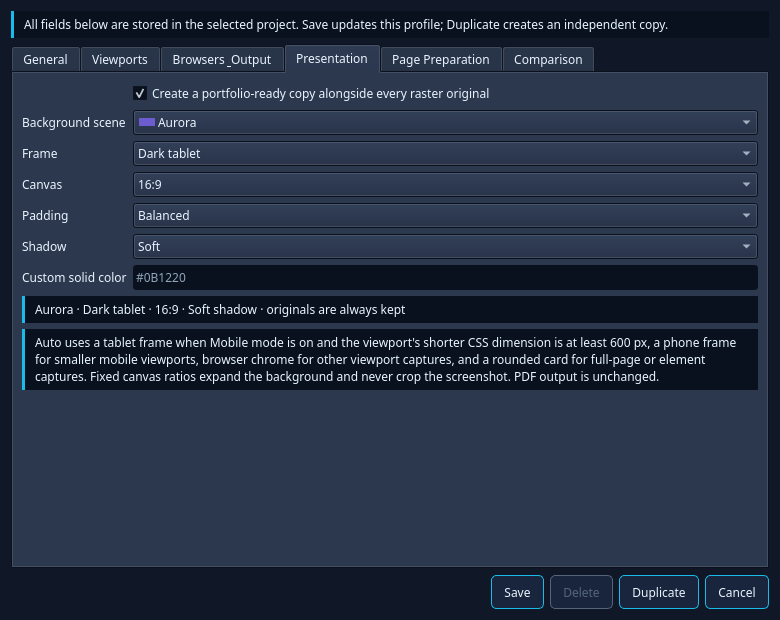
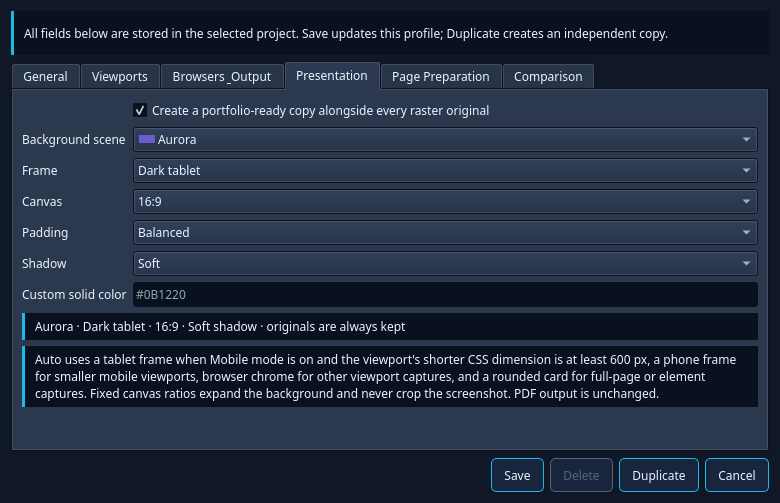
Improve screenshot previews and presentation layout

diff --git a/site/styles.css b/site/styles.css
@@ -94,7 +94,7 @@ h1 em { color: var(--cyan-2); font-style: normal; text-shadow: 0 0 30px rgba(27,
 .portfolio-preview { position: relative; z-index: 1; display: block; overflow: hidden; border: 1px solid rgba(93, 219, 250, .2); border-radius: 13px; background: #130d35; box-shadow: 0 20px 48px rgba(0, 0, 0, .32); }.portfolio-preview img { display: block; width: 100%; height: auto; }
 .supporting-tools { max-width: 920px; margin: 28px auto 0; color: var(--muted); font-size: 14px; line-height: 1.7; text-align: center; }.supporting-tools strong { color: var(--ink); }
 
-.presentation-section { padding-top: 30px; background: radial-gradient(circle at 50% 35%, rgba(109, 91, 208, .12), transparent 45%); }.presentation-showcase { display: grid; grid-template-columns: minmax(0, 1.65fr) minmax(280px, .55fr); gap: 18px; align-items: stretch; }.showcase-shot { margin: 0; padding: 0; overflow: hidden; color: var(--ink); text-align: left; border: 1px solid var(--line); border-radius: 18px; background: #081321; box-shadow: var(--shadow); cursor: zoom-in; transition: transform .25s ease, border-color .25s ease; }.showcase-shot:hover { transform: translateY(-3px); border-color: rgba(65, 216, 250, .42); }.presentation-showcase picture { display: flex; min-height: 0; background: #07111f; }.presentation-showcase img { display: block; width: 100%; height: 100%; object-fit: contain; }.showcase-shot > span { display: block; padding: 14px 17px; color: var(--muted); border-top: 1px solid var(--line); font-size: 12px; line-height: 1.5; }.settings-shot picture { height: calc(100% - 51px); }.settings-shot img { object-fit: contain; object-position: top center; }.frame-gallery { grid-column: 1 / -1; }
+.presentation-section { padding-top: 30px; background: radial-gradient(circle at 50% 35%, rgba(109, 91, 208, .12), transparent 45%); }.presentation-showcase { display: grid; grid-template-columns: repeat(2, minmax(0, 1fr)); gap: 18px; align-items: start; }.showcase-shot { margin: 0; padding: 0; overflow: hidden; color: var(--ink); text-align: left; border: 1px solid var(--line); border-radius: 18px; background: #081321; box-shadow: var(--shadow); cursor: zoom-in; transition: transform .25s ease, border-color .25s ease; }.showcase-shot:hover { transform: translateY(-3px); border-color: rgba(65, 216, 250, .42); }.presentation-showcase picture { display: flex; min-height: 0; background: #07111f; }.presentation-showcase img { display: block; width: 100%; height: 100%; object-fit: contain; }.showcase-shot > span { display: block; padding: 14px 17px; color: var(--muted); border-top: 1px solid var(--line); font-size: 12px; line-height: 1.5; }.settings-shot picture, .settings-shot img { height: auto; }.settings-shot img { object-fit: contain; object-position: top center; }.frame-gallery { grid-column: 1 / -1; }
 
 .workflow-section { border-block: 1px solid var(--line); background: linear-gradient(180deg, rgba(11, 22, 37, .9), rgba(7, 14, 24, .9)); }
 .workflow { margin: 0; padding: 0; display: grid; grid-template-columns: repeat(3, 1fr); list-style: none; counter-reset: steps; }
@@ -105,7 +105,7 @@ h1 em { color: var(--cyan-2); font-style: normal; text-shadow: 0 0 30px rgba(27,
 .shot { min-width: 0; padding: 0; overflow: hidden; color: var(--ink); text-align: left; border: 1px solid var(--line); border-radius: 16px; background: var(--surface); cursor: zoom-in; transition: transform .25s ease, border-color .25s ease; }.shot:hover { transform: translateY(-4px); border-color: rgba(65, 216, 250, .42); }
 .shot picture { display: block; overflow: hidden; aspect-ratio: 16 / 10; border-bottom: 1px solid var(--line); background: #07111f; }.shot img { width: 100%; height: 100%; object-fit: contain; transition: transform .35s ease; }.shot:hover img { transform: scale(1.012); }
 .shot > span { min-height: 92px; padding: 15px 16px; display: block; color: var(--muted); font-size: 12px; line-height: 1.55; }.shot > span b { display: block; margin: 0 0 4px; color: var(--ink); font-size: 15px; }
-.lightbox { width: min(1200px, calc(100% - 30px)); max-width: none; padding: 0; border: 1px solid rgba(63, 213, 248, .3); border-radius: 16px; background: #07111f; box-shadow: var(--shadow); }.lightbox::backdrop { background: rgba(0, 5, 11, .84); backdrop-filter: blur(5px); }.lightbox img { width: 100%; border-radius: 15px; }.lightbox-close { position: absolute; z-index: 2; right: 12px; top: 12px; width: 38px; height: 38px; color: var(--ink); border: 1px solid var(--line); border-radius: 50%; background: rgba(5, 12, 21, .88); cursor: pointer; font-size: 24px; line-height: 1; }
+.lightbox { box-sizing: border-box; width: calc(100vw - 24px); width: calc(100dvw - 24px); height: calc(100vh - 24px); height: calc(100dvh - 24px); max-width: none; max-height: none; padding: 0; overflow: hidden; border: 1px solid rgba(63, 213, 248, .3); border-radius: 16px; background: #07111f; box-shadow: var(--shadow); }.lightbox[open] { display: grid; grid-template-rows: auto minmax(0, 1fr); }.lightbox::backdrop { background: rgba(0, 5, 11, .88); backdrop-filter: blur(5px); }.lightbox-toolbar { min-height: 58px; padding: 9px 11px 9px 18px; display: flex; align-items: center; justify-content: space-between; gap: 16px; border-bottom: 1px solid var(--line); background: #091625; }.lightbox-toolbar > strong { font-size: 13px; letter-spacing: .01em; }.lightbox-actions { display: flex; align-items: center; gap: 8px; }.lightbox-mode, .lightbox-open, .lightbox-close { min-height: 38px; padding: 0 13px; display: inline-flex; align-items: center; justify-content: center; color: var(--muted); border: 1px solid var(--line); border-radius: 9px; background: #0d1c2c; cursor: pointer; font: inherit; font-size: 12px; font-weight: 700; line-height: 1; }.lightbox-mode:hover, .lightbox-open:hover, .lightbox-close:hover, .lightbox-mode[aria-pressed="true"] { color: var(--ink); border-color: rgba(65, 216, 250, .5); background: #12283d; }.lightbox-mode[aria-pressed="true"] { color: var(--cyan-2); }.lightbox-close { width: 38px; padding: 0; border-radius: 50%; font-size: 24px; font-weight: 400; }.lightbox-stage { min-width: 0; min-height: 0; padding: 12px; overflow: auto; display: grid; place-items: center; background: #040a12; }.lightbox img { display: block; width: 100%; height: 100%; object-fit: contain; border-radius: 10px; }.lightbox.is-actual .lightbox-stage { place-items: start center; }.lightbox.is-actual img { width: auto; height: auto; max-width: none; max-height: none; object-fit: none; }
 
 .architecture { display: grid; grid-template-columns: .92fr 1.08fr; align-items: center; gap: 100px; }
 .check-list { margin: 28px 0; padding: 0; display: grid; gap: 12px; list-style: none; color: #bdd0dd; }.check-list li { position: relative; padding-left: 28px; }.check-list li::before { content: "✓"; position: absolute; left: 0; color: var(--cyan); font-weight: 800; }.check-list code { padding: 2px 5px; color: var(--cyan-2); background: #0c1b2d; border-radius: 5px; }
@@ -142,6 +142,6 @@ h1 em { color: var(--cyan-2); font-style: normal; text-shadow: 0 0 30px rgba(27,
   .footer-grid { grid-template-columns: 1fr 1fr; }.footer-grid > div:first-child { grid-column: span 2; }.footer-bottom { gap: 10px; flex-direction: column; }
 }
 
-@media (max-width: 560px) { .gallery { grid-template-columns: 1fr; }.shot > span { min-height: 0; } }
+@media (max-width: 560px) { .gallery { grid-template-columns: 1fr; }.shot > span { min-height: 0; }.lightbox-toolbar > strong, .lightbox-open { display: none; }.lightbox-actions { width: 100%; justify-content: flex-end; } }
 
 @media (prefers-reduced-motion: reduce) { html { scroll-behavior: auto; } *, *::before, *::after { transition-duration: .01ms !important; animation-duration: .01ms !important; } }

diff --git a/site/index.html b/site/index.html
@@ -125,7 +125,7 @@
         </div>
         <div class="presentation-showcase">
           <button class="showcase-shot scene-gallery" type="button" data-image="assets/screenshots/portfolio-scene-gallery.png" data-alt="Real CYBER BRAND Clearnet and Darkweb captures across six CyberSnapper portfolio scenes"><picture><source srcset="assets/screenshots/portfolio-scene-gallery.webp" type="image/webp"><img src="assets/screenshots/portfolio-scene-gallery.png" alt="Real CYBER BRAND Clearnet and Darkweb captures across six CyberSnapper portfolio scenes" width="1800" height="940" loading="lazy"></picture><span>Six styles using real Clearnet and Darkweb captures. Click to enlarge.</span></button>
-          <button class="showcase-shot settings-shot" type="button" data-image="assets/screenshots/app-presentation.png" data-alt="CyberSnapper Presentation profile editor with scene, frame, canvas, padding, and shadow controls"><picture><source srcset="assets/screenshots/app-presentation.webp" type="image/webp"><img src="assets/screenshots/app-presentation.png" alt="CyberSnapper Presentation profile editor with scene, frame, canvas, padding, and shadow controls" width="780" height="620" loading="lazy"></picture><span>Every choice is explicit, reusable, and saved with the profile.</span></button>
+          <button class="showcase-shot settings-shot" type="button" data-image="assets/screenshots/app-presentation.png" data-alt="CyberSnapper Presentation profile editor with scene, frame, canvas, padding, and shadow controls"><picture><source srcset="assets/screenshots/app-presentation.webp" type="image/webp"><img src="assets/screenshots/app-presentation.png" alt="CyberSnapper Presentation profile editor with scene, frame, canvas, padding, and shadow controls" width="780" height="503" loading="lazy"></picture><span>Every choice is explicit, reusable, and saved with the profile.</span></button>
           <button class="showcase-shot frame-gallery" type="button" data-image="assets/screenshots/portfolio-frame-gallery.png" data-alt="CYBER BRAND Clearnet and Darkweb frame comparison showing no frame, rounded card, and light and dark browser, tablet, and phone frames"><picture><source srcset="assets/screenshots/portfolio-frame-gallery.webp" type="image/webp"><img src="assets/screenshots/portfolio-frame-gallery.png" alt="CYBER BRAND Clearnet and Darkweb frame comparison showing no frame, rounded card, and light and dark browser, tablet, and phone frames" width="1800" height="940" loading="lazy"></picture><span>Every frame option using matching Clearnet and Darkweb desktop, tablet, and mobile captures. Click to enlarge.</span></button>
         </div>
       </div>
@@ -218,8 +218,16 @@
   </footer>
 
   <dialog class="lightbox" aria-label="Screenshot preview">
-    <button type="button" class="lightbox-close" aria-label="Close screenshot">×</button>
-    <img src="assets/screenshots/app-capture.png" alt="">
+    <div class="lightbox-toolbar">
+      <strong>Screenshot preview</strong>
+      <div class="lightbox-actions">
+        <button type="button" class="lightbox-mode" data-lightbox-mode="fit" aria-pressed="true">Fit screen</button>
+        <button type="button" class="lightbox-mode" data-lightbox-mode="actual" aria-pressed="false">100%</button>
+        <a class="lightbox-open" href="assets/screenshots/app-capture.png" target="_blank" rel="noopener">Open original <span aria-hidden="true">↗</span></a>
+        <button type="button" class="lightbox-close" aria-label="Close screenshot">×</button>
+      </div>
+    </div>
+    <div class="lightbox-stage"><img src="assets/screenshots/app-capture.png" alt=""></div>
   </dialog>
 </body>
 </html>

diff --git a/site/app.js b/site/app.js
@@ -17,17 +17,29 @@ navLinks?.addEventListener('click', (event) => {
 
 const lightbox = document.querySelector('.lightbox');
 const lightboxImage = lightbox?.querySelector('img');
+const lightboxStage = lightbox?.querySelector('.lightbox-stage');
+const lightboxOpen = lightbox?.querySelector('.lightbox-open');
+const lightboxModes = [...(lightbox?.querySelectorAll('[data-lightbox-mode]') || [])];
+function setLightboxMode(mode) {
+  if (!lightbox) return;
+  lightbox.classList.toggle('is-actual', mode === 'actual');
+  lightboxModes.forEach((button) => button.setAttribute('aria-pressed', String(button.dataset.lightboxMode === mode)));
+  lightboxStage?.scrollTo(0, 0);
+}
 document.querySelectorAll('.shot, .showcase-shot').forEach((shot) => {
   shot.addEventListener('click', () => {
     if (!lightbox || !lightboxImage) return;
     lightboxImage.src = shot.dataset.image;
     lightboxImage.alt = shot.dataset.alt;
+    if (lightboxOpen) lightboxOpen.href = shot.dataset.image;
+    setLightboxMode('fit');
     lightbox.showModal();
   });
 });
+lightboxModes.forEach((button) => button.addEventListener('click', () => setLightboxMode(button.dataset.lightboxMode)));
 lightbox?.querySelector('.lightbox-close')?.addEventListener('click', () => lightbox.close());
 lightbox?.addEventListener('click', (event) => {
-  if (event.target === lightbox) lightbox.close();
+  if (event.target === lightbox || event.target === lightboxStage) lightbox.close();
 });
 
 function preferredAsset() {

diff --git a/native/src/gui/MainWindow.cpp b/native/src/gui/MainWindow.cpp
@@ -2572,6 +2572,19 @@ void MainWindow::openProfileManager() {
     rpcCall("profile.remove", {{"projectId", m_projectId}, {"profileId", source.value("id").toString()}},
             [&, this](const QJsonObject &) { dialog.accept(); refreshProfiles(); });
   });
+  const bool tightPresentationCapture = !qEnvironmentVariable("CYBERSNAPPER_UI_SCREENSHOT").isEmpty() &&
+      qEnvironmentVariable("CYBERSNAPPER_UI_SCENE").compare("presentation", Qt::CaseInsensitive) == 0;
+  if (tightPresentationCapture) {
+    // The documentation grab targets this modal; collapse the tab's unused stretch without changing the normal manager.
+    QTimer::singleShot(0, &dialog, [&dialog, tabs, presentationPage] {
+      presentationPage->layout()->activate();
+      const int tabChromeHeight = qMax(0, tabs->height() - presentationPage->height());
+      tabs->setFixedHeight(tabChromeHeight + presentationPage->layout()->sizeHint().height());
+      dialog.layout()->activate();
+      dialog.adjustSize();
+      dialog.resize(780, dialog.height());
+    });
+  }
   dialog.exec();
 }
 
